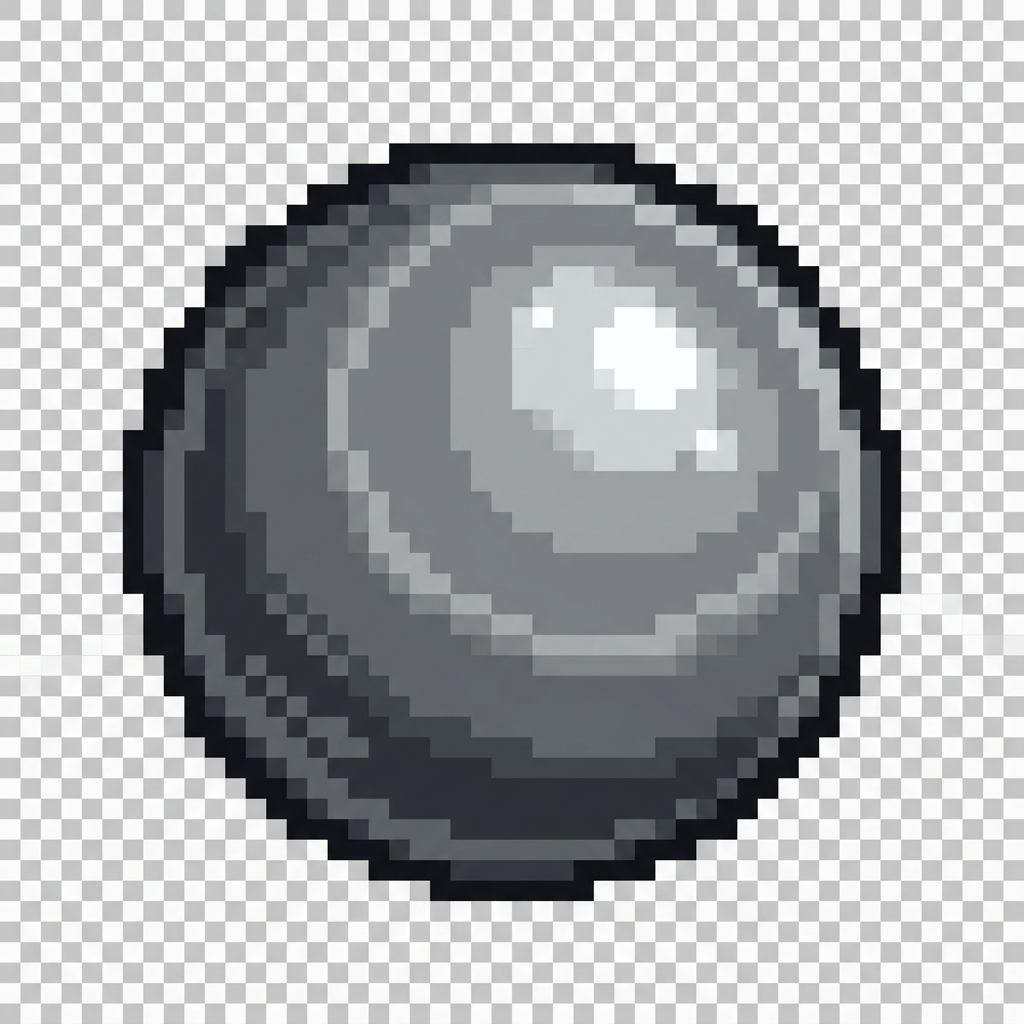
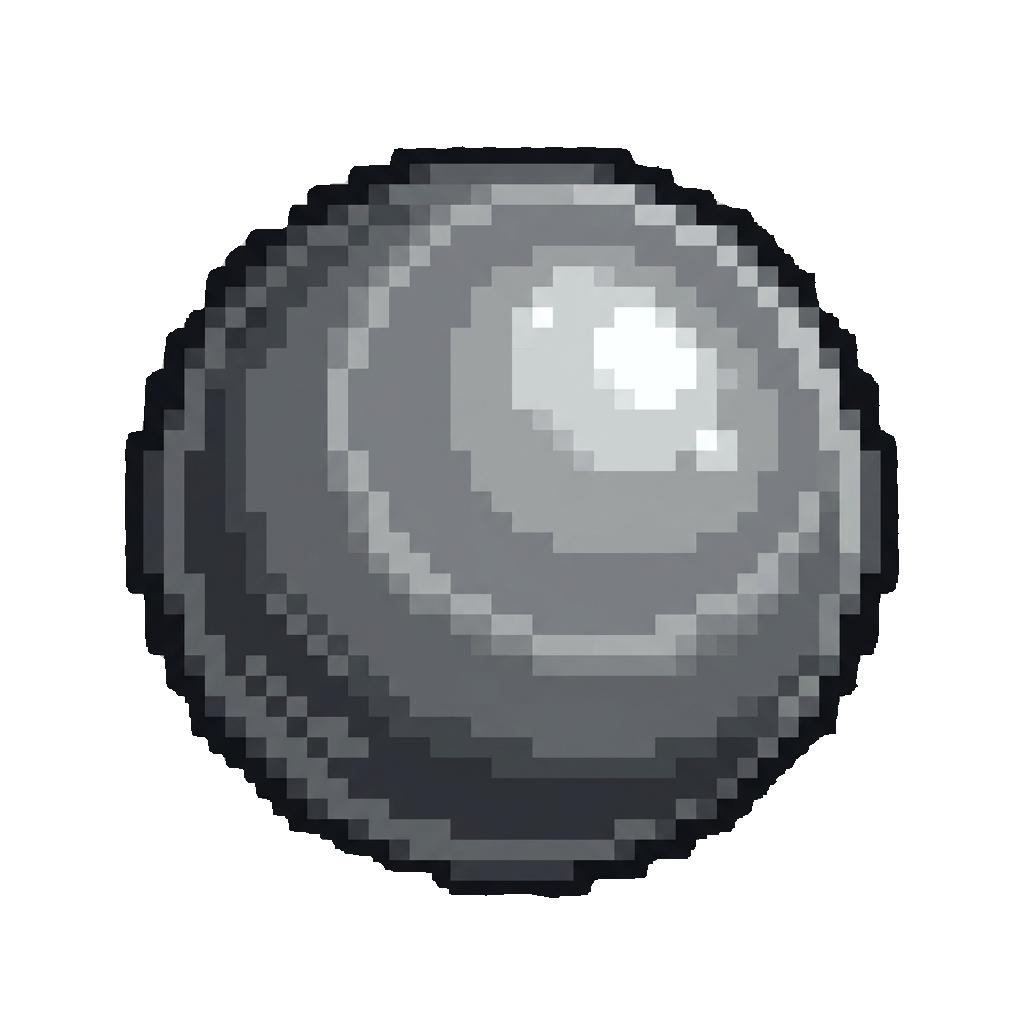
Fix UI/UX Ranking: Insignias de zona compactas y normalización de alineación de tabla

Changed region(s): [[0.0, 0.0, 1.0, 1.0]]

diff --git a/app/src/main/assets/game.js b/app/src/main/assets/game.js
@@ -4147,11 +4147,16 @@ async function cargarRankingGlobal() {
                 const tr = document.createElement('tr');
                 
                 let badgesHTML = '';
-                if (hasR1) badgesHTML += '<br><span class="r1-badge-neon" style="color:#10b981; border-color:#10b981; text-shadow:0 0 5px #10b981;">RACHA PERFECTA ZONA 1</span>';
-                if (hasR2) badgesHTML += '<br><span class="r1-badge-neon" style="color:#f97316; border-color:#f97316; text-shadow:0 0 5px #f97316;">RACHA PERFECTA ZONA 2</span>';
-                if (hasR3) badgesHTML += '<br><span class="r1-badge-neon" style="color:#3b82f6; border-color:#3b82f6; text-shadow:0 0 5px #3b82f6;">RACHA PERFECTA ZONA 3</span>';
-                if (hasR4) badgesHTML += '<br><span class="r1-badge-neon" style="color:#ec4899; border-color:#ec4899; text-shadow:0 0 5px #ec4899;">RACHA PERFECTA ZONA 4</span>';
-                if (hasR5) badgesHTML += '<br><span class="r1-badge-neon" style="color:#fbbf24; border-color:#fbbf24; text-shadow:0 0 5px #fbbf24;">RACHA PERFECTA ZONA 5</span>';
+                let badgesList = [];
+                if (hasR1) badgesList.push('<span class="zone-badge badge-z1" data-tooltip="Racha Perfecta Zona 1" title="Racha Perfecta Zona 1">Z1</span>');
+                if (hasR2) badgesList.push('<span class="zone-badge badge-z2" data-tooltip="Racha Perfecta Zona 2" title="Racha Perfecta Zona 2">Z2</span>');
+                if (hasR3) badgesList.push('<span class="zone-badge badge-z3" data-tooltip="Racha Perfecta Zona 3" title="Racha Perfecta Zona 3">Z3</span>');
+                if (hasR4) badgesList.push('<span class="zone-badge badge-z4" data-tooltip="Racha Perfecta Zona 4" title="Racha Perfecta Zona 4">Z4</span>');
+                if (hasR5) badgesList.push('<span class="zone-badge badge-z5" data-tooltip="Racha Perfecta Zona 5" title="Racha Perfecta Zona 5">Z5</span>');
+                
+                if (badgesList.length > 0) {
+                    badgesHTML = `<div class="zone-badges-container">${badgesList.join('')}</div>`;
+                }
 
                 tr.style.boxShadow = '';
                 if (hasR5) tr.style.boxShadow = 'inset 0 0 15px rgba(251,191,36,0.5)';
@@ -4161,14 +4166,17 @@ async function cargarRankingGlobal() {
                 else if (hasR1) tr.style.boxShadow = 'inset 0 0 15px rgba(16,185,129,0.5)';
                 tr.innerHTML = `
                     <td>${medal}</td>
-                    <td style="text-align: left; padding-left: 10px; line-height: 1.4;">
+                    <td style="text-align: left; padding-left: 10px; line-height: 1.2; vertical-align: middle;">
                         <img class="leaderboard-avatar" src="${avatarSrc}" alt="Avatar">
                         <div style="display:inline-block; vertical-align:middle;">
-                            ${data.name || 'Jugador'}${badgesHTML}
+                            <div style="display: flex; flex-direction: column; justify-content: center;">
+                                <span class="player-nickname" style="font-weight: bold; color: #fff;">${data.name || 'Jugador'}</span>
+                                ${badgesHTML}
+                            </div>
                         </div>
                     </td>
-                    <td>${data.maxLevel || 1}</td>
-                    <td style="color: #eab308; font-weight: bold;">${data.score || 0}</td>
+                    <td style="vertical-align: middle;">${data.maxLevel || 1}</td>
+                    <td style="color: #eab308; font-weight: bold; vertical-align: middle;">${data.score || 0}</td>
                 `;
                 tbody.appendChild(tr);
             });

diff --git a/game.js b/game.js
@@ -4147,11 +4147,16 @@ async function cargarRankingGlobal() {
                 const tr = document.createElement('tr');
                 
                 let badgesHTML = '';
-                if (hasR1) badgesHTML += '<br><span class="r1-badge-neon" style="color:#10b981; border-color:#10b981; text-shadow:0 0 5px #10b981;">RACHA PERFECTA ZONA 1</span>';
-                if (hasR2) badgesHTML += '<br><span class="r1-badge-neon" style="color:#f97316; border-color:#f97316; text-shadow:0 0 5px #f97316;">RACHA PERFECTA ZONA 2</span>';
-                if (hasR3) badgesHTML += '<br><span class="r1-badge-neon" style="color:#3b82f6; border-color:#3b82f6; text-shadow:0 0 5px #3b82f6;">RACHA PERFECTA ZONA 3</span>';
-                if (hasR4) badgesHTML += '<br><span class="r1-badge-neon" style="color:#ec4899; border-color:#ec4899; text-shadow:0 0 5px #ec4899;">RACHA PERFECTA ZONA 4</span>';
-                if (hasR5) badgesHTML += '<br><span class="r1-badge-neon" style="color:#fbbf24; border-color:#fbbf24; text-shadow:0 0 5px #fbbf24;">RACHA PERFECTA ZONA 5</span>';
+                let badgesList = [];
+                if (hasR1) badgesList.push('<span class="zone-badge badge-z1" data-tooltip="Racha Perfecta Zona 1" title="Racha Perfecta Zona 1">Z1</span>');
+                if (hasR2) badgesList.push('<span class="zone-badge badge-z2" data-tooltip="Racha Perfecta Zona 2" title="Racha Perfecta Zona 2">Z2</span>');
+                if (hasR3) badgesList.push('<span class="zone-badge badge-z3" data-tooltip="Racha Perfecta Zona 3" title="Racha Perfecta Zona 3">Z3</span>');
+                if (hasR4) badgesList.push('<span class="zone-badge badge-z4" data-tooltip="Racha Perfecta Zona 4" title="Racha Perfecta Zona 4">Z4</span>');
+                if (hasR5) badgesList.push('<span class="zone-badge badge-z5" data-tooltip="Racha Perfecta Zona 5" title="Racha Perfecta Zona 5">Z5</span>');
+                
+                if (badgesList.length > 0) {
+                    badgesHTML = `<div class="zone-badges-container">${badgesList.join('')}</div>`;
+                }
 
                 tr.style.boxShadow = '';
                 if (hasR5) tr.style.boxShadow = 'inset 0 0 15px rgba(251,191,36,0.5)';
@@ -4161,14 +4166,17 @@ async function cargarRankingGlobal() {
                 else if (hasR1) tr.style.boxShadow = 'inset 0 0 15px rgba(16,185,129,0.5)';
                 tr.innerHTML = `
                     <td>${medal}</td>
-                    <td style="text-align: left; padding-left: 10px; line-height: 1.4;">
+                    <td style="text-align: left; padding-left: 10px; line-height: 1.2; vertical-align: middle;">
                         <img class="leaderboard-avatar" src="${avatarSrc}" alt="Avatar">
                         <div style="display:inline-block; vertical-align:middle;">
-                            ${data.name || 'Jugador'}${badgesHTML}
+                            <div style="display: flex; flex-direction: column; justify-content: center;">
+                                <span class="player-nickname" style="font-weight: bold; color: #fff;">${data.name || 'Jugador'}</span>
+                                ${badgesHTML}
+                            </div>
                         </div>
                     </td>
-                    <td>${data.maxLevel || 1}</td>
-                    <td style="color: #eab308; font-weight: bold;">${data.score || 0}</td>
+                    <td style="vertical-align: middle;">${data.maxLevel || 1}</td>
+                    <td style="color: #eab308; font-weight: bold; vertical-align: middle;">${data.score || 0}</td>
                 `;
                 tbody.appendChild(tr);
             });

diff --git a/app/src/main/assets/style.css b/app/src/main/assets/style.css
@@ -519,9 +519,14 @@ button:active {
 }
 
 .leaderboard-table td {
-    padding: 0.7rem;
+    padding: 0.6rem 0.7rem;
     text-align: center;
     border-bottom: 1px solid rgba(255, 255, 255, 0.05);
+    vertical-align: middle;
+}
+
+.leaderboard-table tbody tr {
+    height: 48px; /* Altura uniforme para todas las filas */
 }
 
 .leaderboard-table tbody tr:hover {
@@ -1570,25 +1575,87 @@ input:checked + .slider:before {
     }
 }
 
-.r1-badge {
-    display: none;
+/* --- ESTILOS PARA INSIGNIAS DE ZONA EN RANKING GLOBAL --- */
+.zone-badges-container {
+    display: flex;
+    flex-direction: row;
+    gap: 4px;
+    margin-top: 3px;
+    justify-content: flex-start;
+    align-items: center;
 }
 
-.r1-badge-neon {
+.zone-badge {
     display: inline-block;
-    background: linear-gradient(135deg, #10b981, #059669);
-    color: #fff;
+    background: rgba(16, 185, 129, 0.2); /* Fondo verde oscuro muy sutil */
+    border: 1px solid #10b981; /* Borde fino de neón verde brillante */
+    color: #fbbf24; /* Amarillo brillante para contrastar */
     font-family: 'Press Start 2P', cursive;
-    font-size: 0.45rem;
-    padding: 3px 6px;
-    border-radius: 4px;
-    margin-top: 4px;
+    font-size: 0.5rem; /* Muy pequeño, alineado con nivel/puntos */
+    padding: 2px 4.5px;
+    border-radius: 3px;
     text-shadow: 1px 1px 0 #000;
-    box-shadow: 0 0 8px #10b981;
-    border: 1px solid #34d399;
+    box-shadow: 0 0 5px rgba(16, 185, 129, 0.6);
+    cursor: help;
+    text-align: center;
+    line-height: 1;
+    position: relative;
 }
 
-@keyframes bounceBadge {
-    0%, 100% { transform: translateY(0); }
-    50% { transform: translateY(-3px); }
+.zone-badge:hover {
+    box-shadow: 0 0 8px rgba(16, 185, 129, 0.9);
+    border-color: #34d399;
+}
+
+/* Colores específicos de texto para alternar y mejorar contraste/variedad */
+.zone-badge.badge-z2, .zone-badge.badge-z4 {
+    color: #ff9800; /* Naranja brillante */
+}
+
+/* Tooltips para las insignias */
+.zone-badge[data-tooltip]::after {
+    content: attr(data-tooltip);
+    position: absolute;
+    bottom: 140%;
+    left: 50%;
+    transform: translate(-50%, 8px);
+    background: rgba(15, 23, 42, 0.95);
+    color: #fff;
+    padding: 5px 8px;
+    border-radius: 4px;
+    border: 1px solid #10b981;
+    font-family: 'Righteous', sans-serif;
+    font-size: 0.7rem;
+    white-space: nowrap;
+    opacity: 0;
+    visibility: hidden;
+    transition: opacity 0.2s ease, transform 0.2s ease, visibility 0.2s;
+    box-shadow: 0 0 10px rgba(16, 185, 129, 0.5);
+    z-index: 9999;
+    pointer-events: none;
+}
+
+.zone-badge[data-tooltip]::before {
+    content: "";
+    position: absolute;
+    bottom: 115%;
+    left: 50%;
+    transform: translate(-50%, 8px);
+    border-width: 5px;
+    border-style: solid;
+    border-color: #10b981 transparent transparent transparent;
+    opacity: 0;
+    visibility: hidden;
+    transition: opacity 0.2s ease, transform 0.2s ease, visibility 0.2s;
+    z-index: 9999;
+    pointer-events: none;
+}
+
+.zone-badge[data-tooltip]:hover::after,
+.zone-badge[data-tooltip]:hover::before,
+.zone-badge[data-tooltip]:active::after,
+.zone-badge[data-tooltip]:active::before {
+    opacity: 1;
+    visibility: visible;
+    transform: translate(-50%, 0);
 }

diff --git a/style.css b/style.css
@@ -519,9 +519,14 @@ button:active {
 }
 
 .leaderboard-table td {
-    padding: 0.7rem;
+    padding: 0.6rem 0.7rem;
     text-align: center;
     border-bottom: 1px solid rgba(255, 255, 255, 0.05);
+    vertical-align: middle;
+}
+
+.leaderboard-table tbody tr {
+    height: 48px; /* Altura uniforme para todas las filas */
 }
 
 .leaderboard-table tbody tr:hover {
@@ -1570,25 +1575,87 @@ input:checked + .slider:before {
     }
 }
 
-.r1-badge {
-    display: none;
+/* --- ESTILOS PARA INSIGNIAS DE ZONA EN RANKING GLOBAL --- */
+.zone-badges-container {
+    display: flex;
+    flex-direction: row;
+    gap: 4px;
+    margin-top: 3px;
+    justify-content: flex-start;
+    align-items: center;
 }
 
-.r1-badge-neon {
+.zone-badge {
     display: inline-block;
-    background: linear-gradient(135deg, #10b981, #059669);
-    color: #fff;
+    background: rgba(16, 185, 129, 0.2); /* Fondo verde oscuro muy sutil */
+    border: 1px solid #10b981; /* Borde fino de neón verde brillante */
+    color: #fbbf24; /* Amarillo brillante para contrastar */
     font-family: 'Press Start 2P', cursive;
-    font-size: 0.45rem;
-    padding: 3px 6px;
-    border-radius: 4px;
-    margin-top: 4px;
+    font-size: 0.5rem; /* Muy pequeño, alineado con nivel/puntos */
+    padding: 2px 4.5px;
+    border-radius: 3px;
     text-shadow: 1px 1px 0 #000;
-    box-shadow: 0 0 8px #10b981;
-    border: 1px solid #34d399;
+    box-shadow: 0 0 5px rgba(16, 185, 129, 0.6);
+    cursor: help;
+    text-align: center;
+    line-height: 1;
+    position: relative;
 }
 
-@keyframes bounceBadge {
-    0%, 100% { transform: translateY(0); }
-    50% { transform: translateY(-3px); }
+.zone-badge:hover {
+    box-shadow: 0 0 8px rgba(16, 185, 129, 0.9);
+    border-color: #34d399;
+}
+
+/* Colores específicos de texto para alternar y mejorar contraste/variedad */
+.zone-badge.badge-z2, .zone-badge.badge-z4 {
+    color: #ff9800; /* Naranja brillante */
+}
+
+/* Tooltips para las insignias */
+.zone-badge[data-tooltip]::after {
+    content: attr(data-tooltip);
+    position: absolute;
+    bottom: 140%;
+    left: 50%;
+    transform: translate(-50%, 8px);
+    background: rgba(15, 23, 42, 0.95);
+    color: #fff;
+    padding: 5px 8px;
+    border-radius: 4px;
+    border: 1px solid #10b981;
+    font-family: 'Righteous', sans-serif;
+    font-size: 0.7rem;
+    white-space: nowrap;
+    opacity: 0;
+    visibility: hidden;
+    transition: opacity 0.2s ease, transform 0.2s ease, visibility 0.2s;
+    box-shadow: 0 0 10px rgba(16, 185, 129, 0.5);
+    z-index: 9999;
+    pointer-events: none;
+}
+
+.zone-badge[data-tooltip]::before {
+    content: "";
+    position: absolute;
+    bottom: 115%;
+    left: 50%;
+    transform: translate(-50%, 8px);
+    border-width: 5px;
+    border-style: solid;
+    border-color: #10b981 transparent transparent transparent;
+    opacity: 0;
+    visibility: hidden;
+    transition: opacity 0.2s ease, transform 0.2s ease, visibility 0.2s;
+    z-index: 9999;
+    pointer-events: none;
+}
+
+.zone-badge[data-tooltip]:hover::after,
+.zone-badge[data-tooltip]:hover::before,
+.zone-badge[data-tooltip]:active::after,
+.zone-badge[data-tooltip]:active::before {
+    opacity: 1;
+    visibility: visible;
+    transform: translate(-50%, 0);
 }
